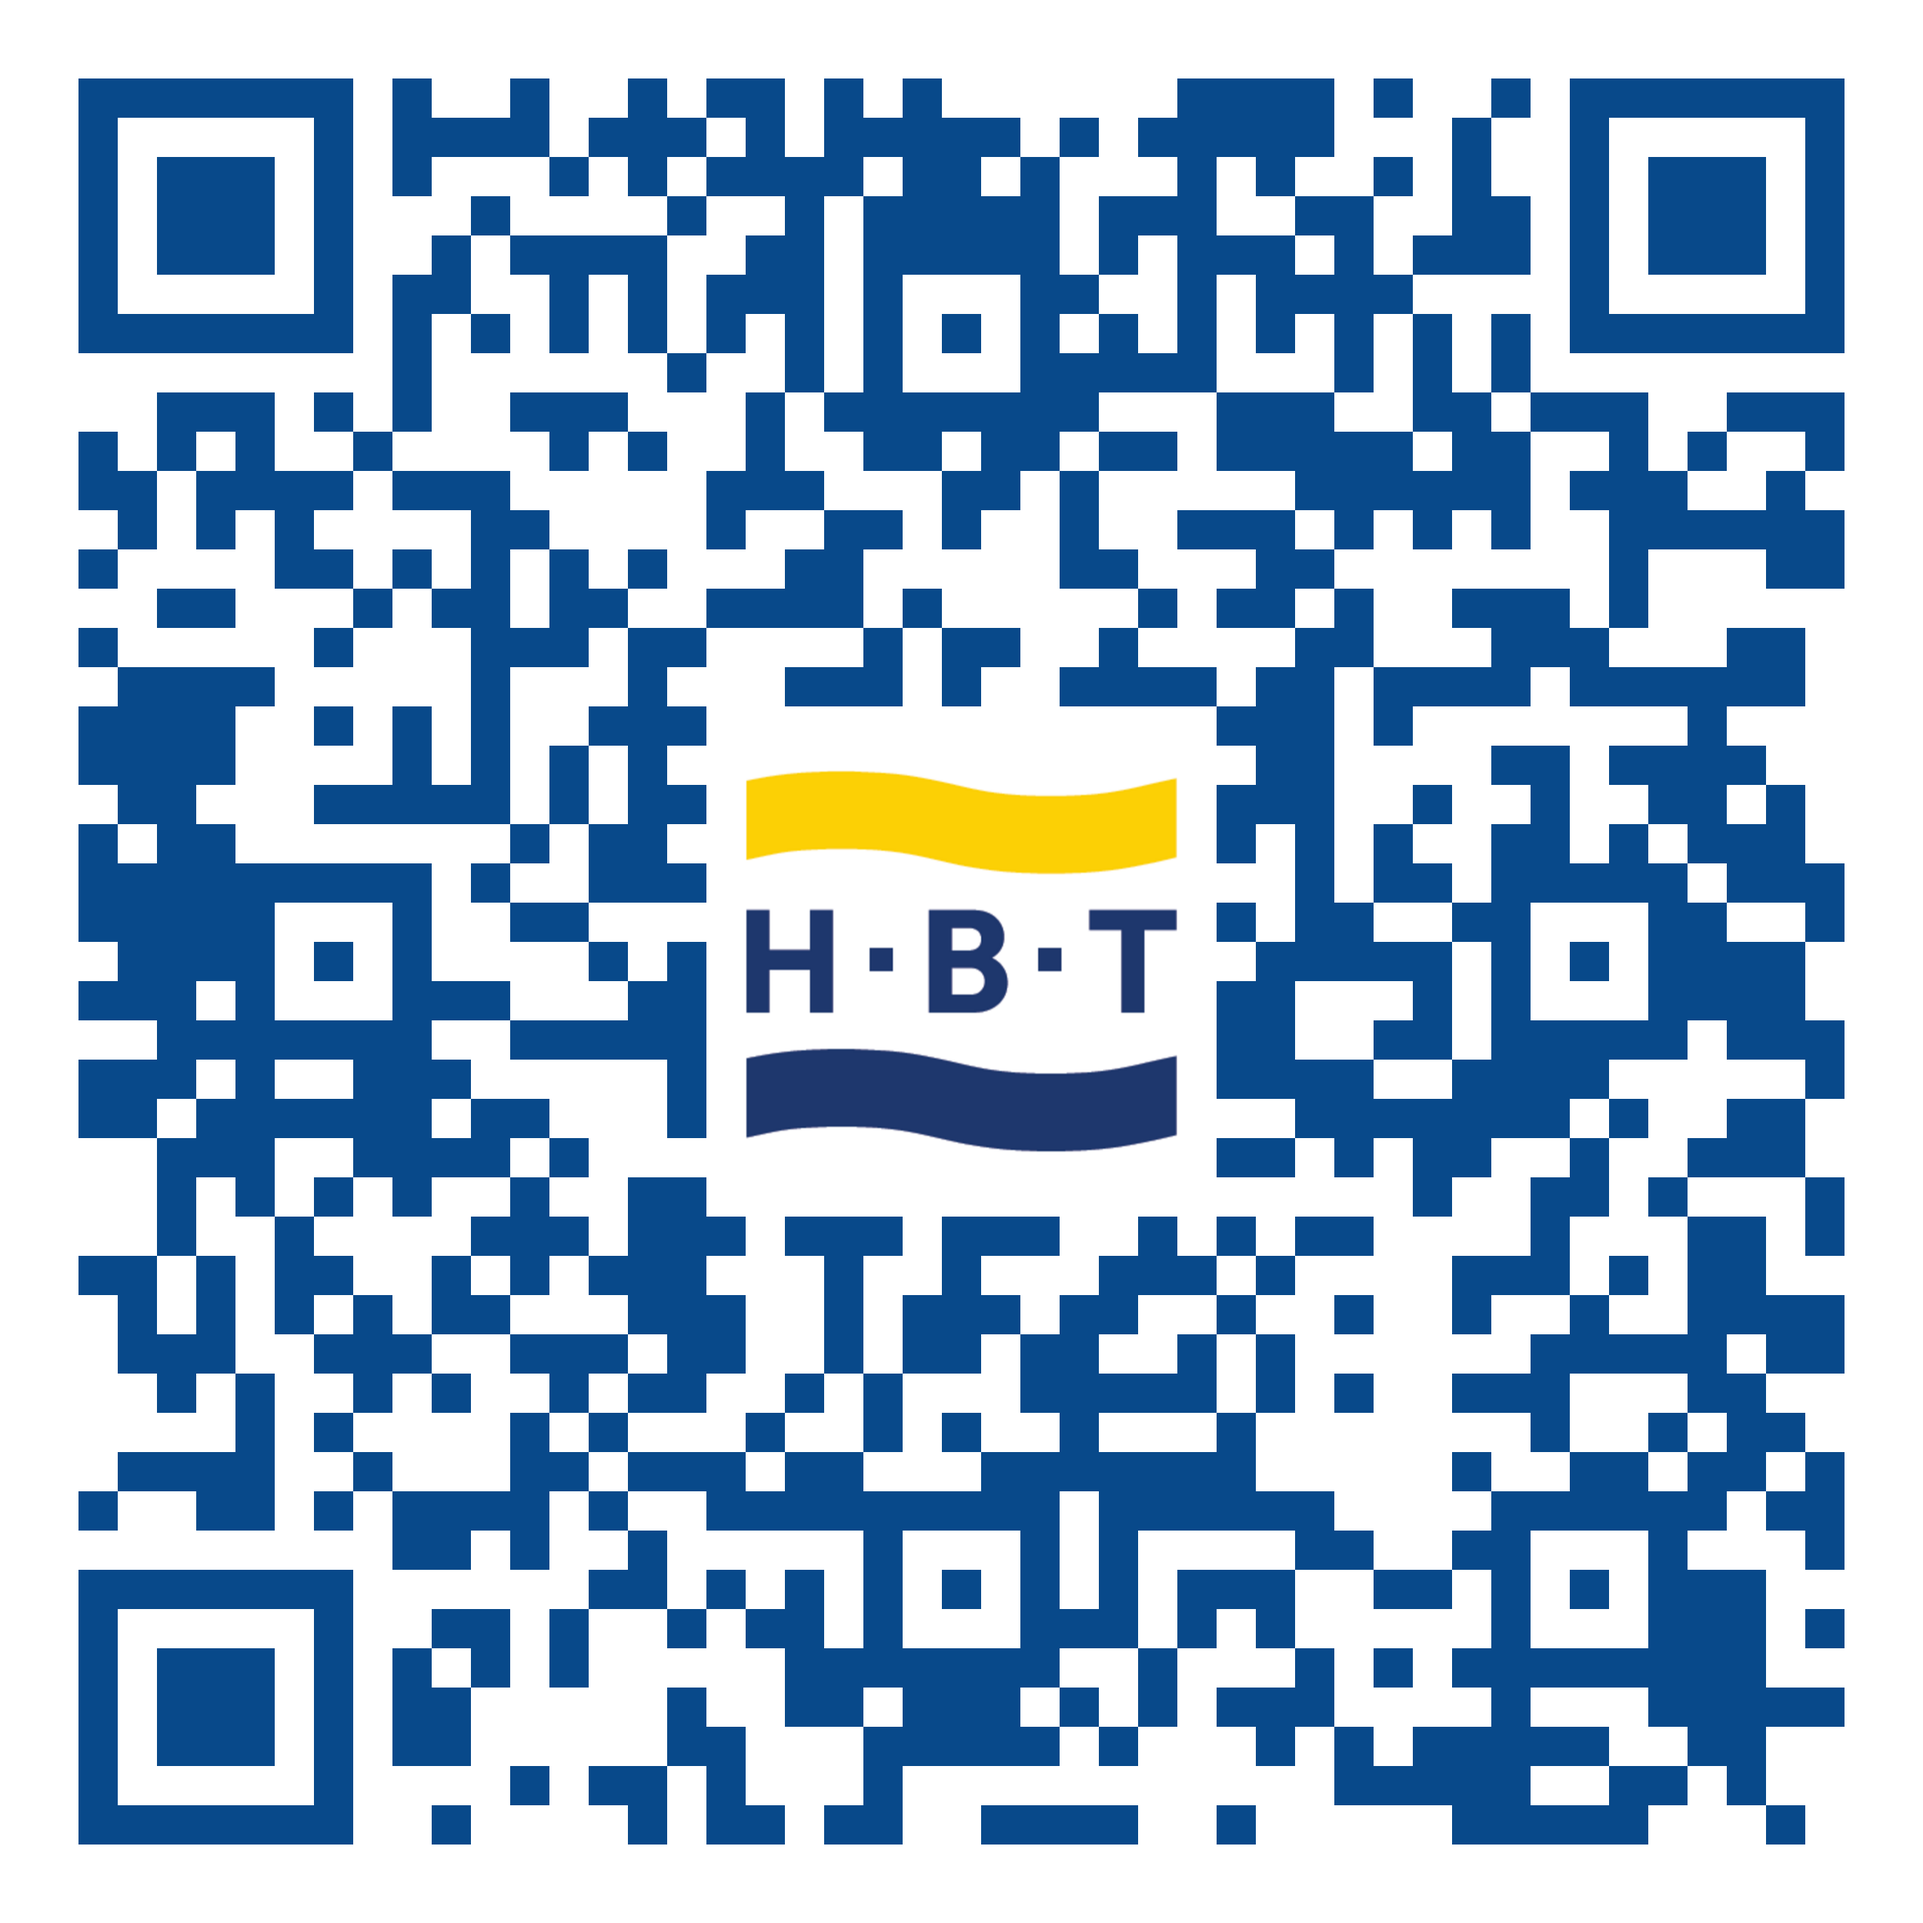
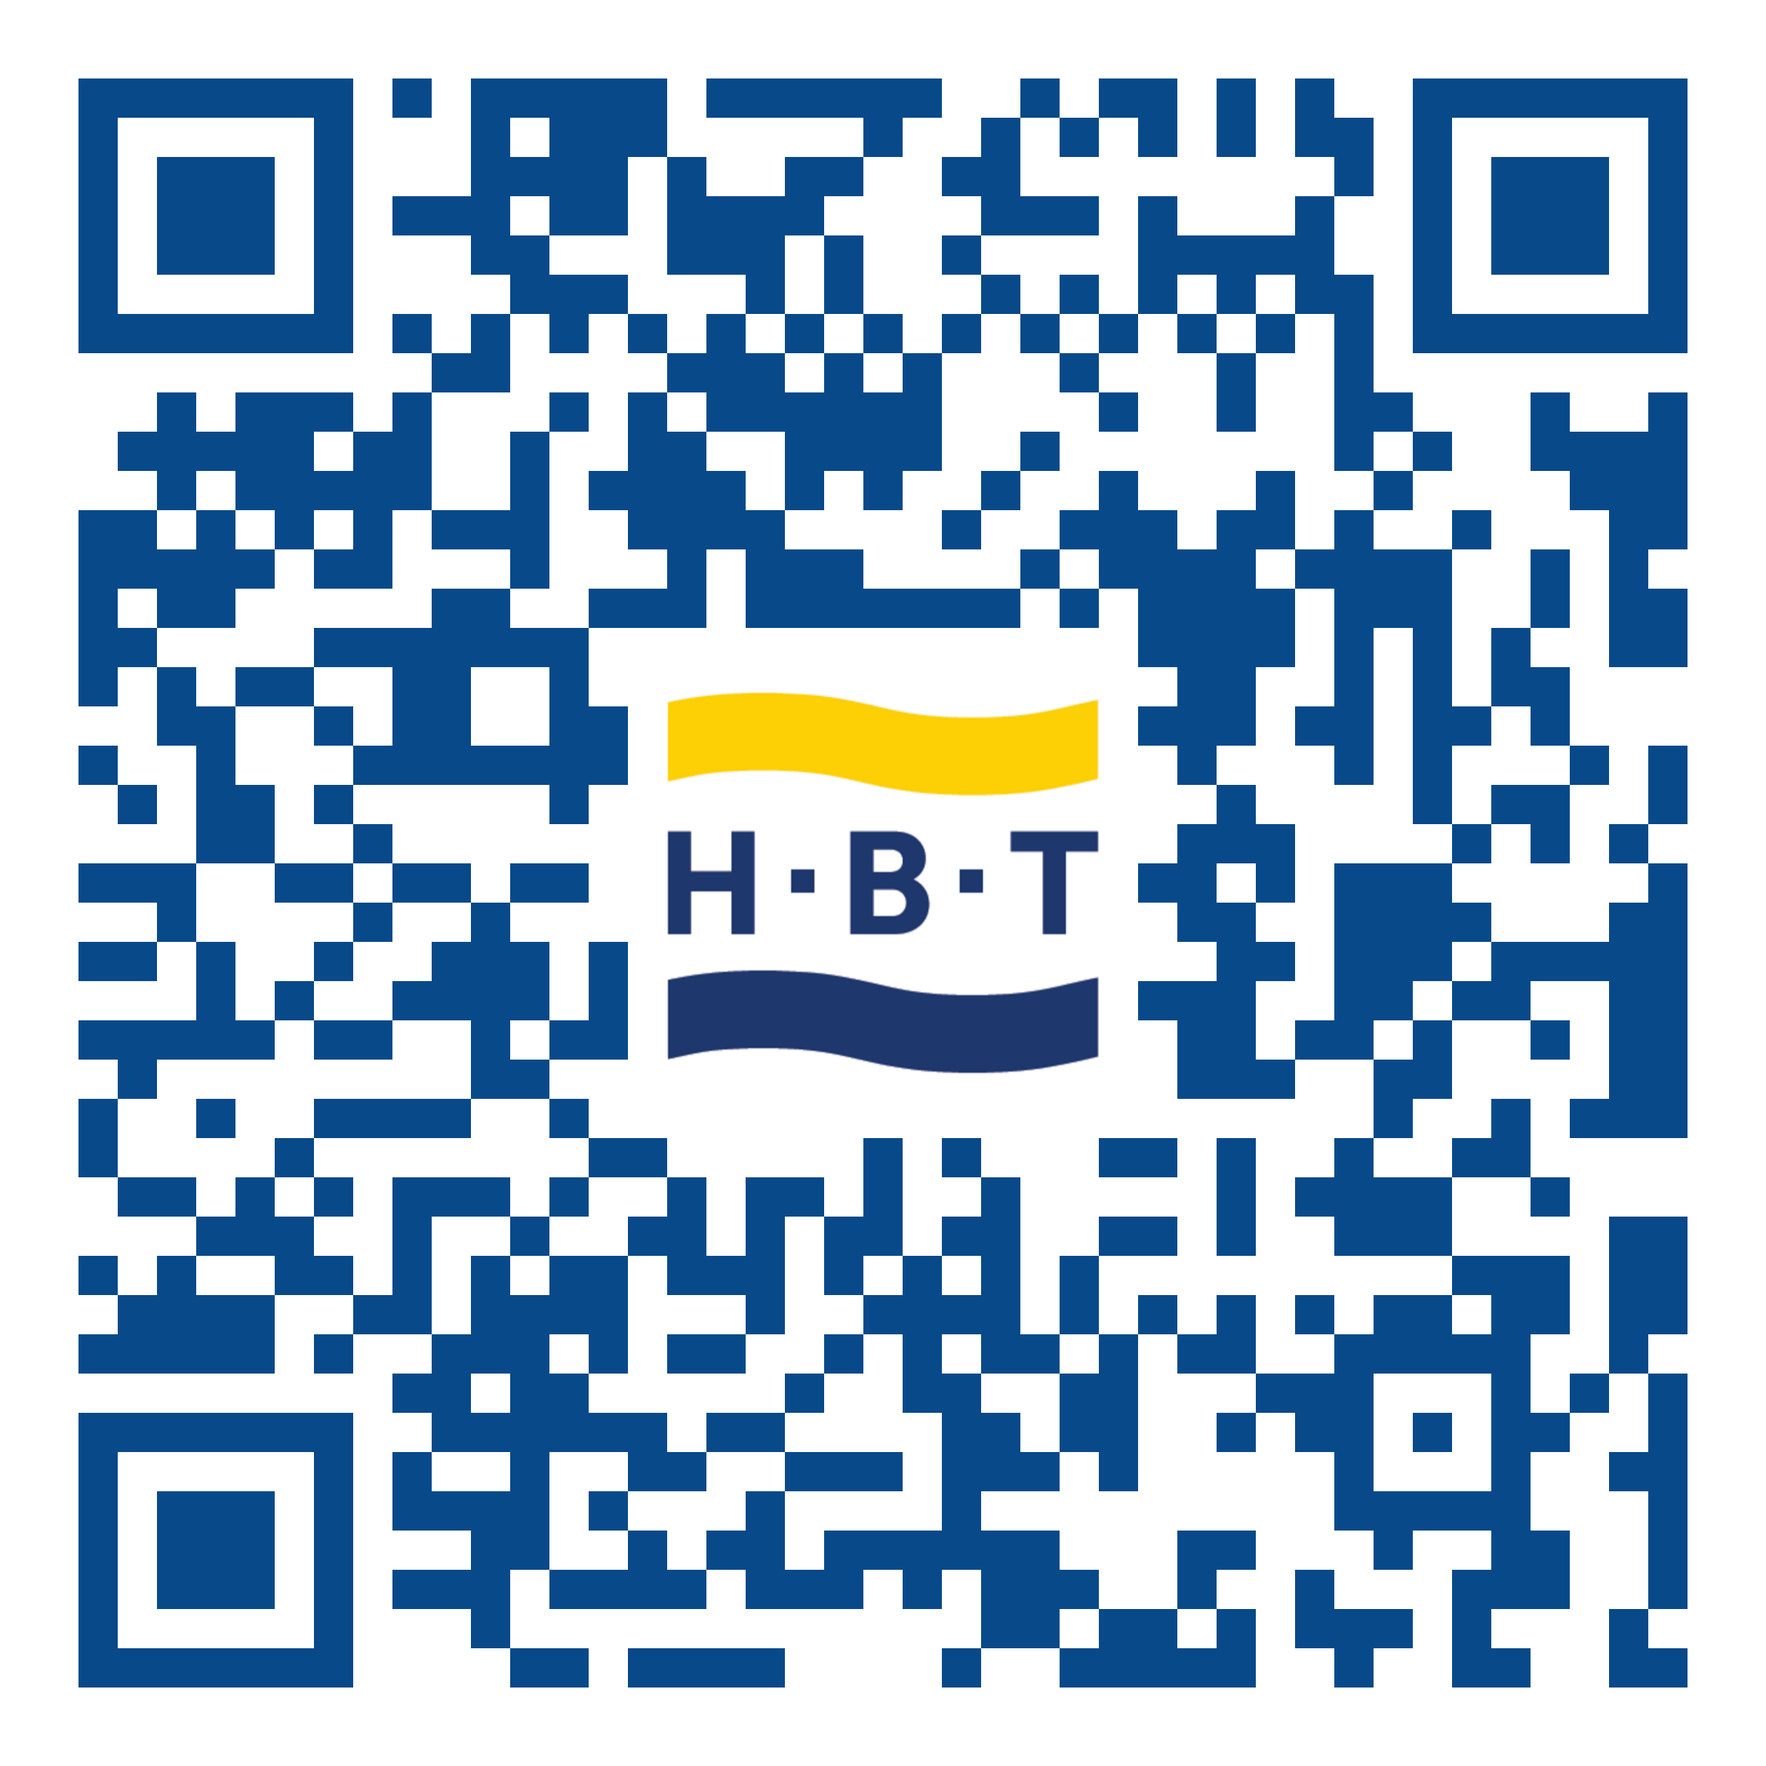
Add files via upload

diff --git a/README.md b/README.md
@@ -3,8 +3,8 @@
 Each person gets their own page and their own QR code, all hosted from **one** GitHub account and **one** repository.
 
 ```
-https://YOUR-GITHUB-USERNAME.github.io/hbt-cards/dinesh-mani/
-https://YOUR-GITHUB-USERNAME.github.io/hbt-cards/next-person/
+https://hbtai2027-lab.github.io/hbt-cards/dinesh-mani/
+https://hbtai2027-lab.github.io/hbt-cards/next-person/
 ```
 
 ## One-time setup (GitHub Pages)
@@ -12,7 +12,7 @@ https://YOUR-GITHUB-USERNAME.github.io/hbt-cards/next-person/
 1. Create a **public** repository named `hbt-cards` in your GitHub account.
 2. Upload everything in this folder (Add file → Upload files).
 3. Settings → Pages → Source: **Deploy from a branch**, Branch: `main`, folder `/ (root)` → Save.
-4. Wait 1–2 minutes. Your pages are live at `https://YOUR-GITHUB-USERNAME.github.io/hbt-cards/<slug>/`.
+4. Wait 1–2 minutes. Your pages are live at `https://hbtai2027-lab.github.io/hbt-cards/<slug>/`.
 
 ## Adding a person
 
